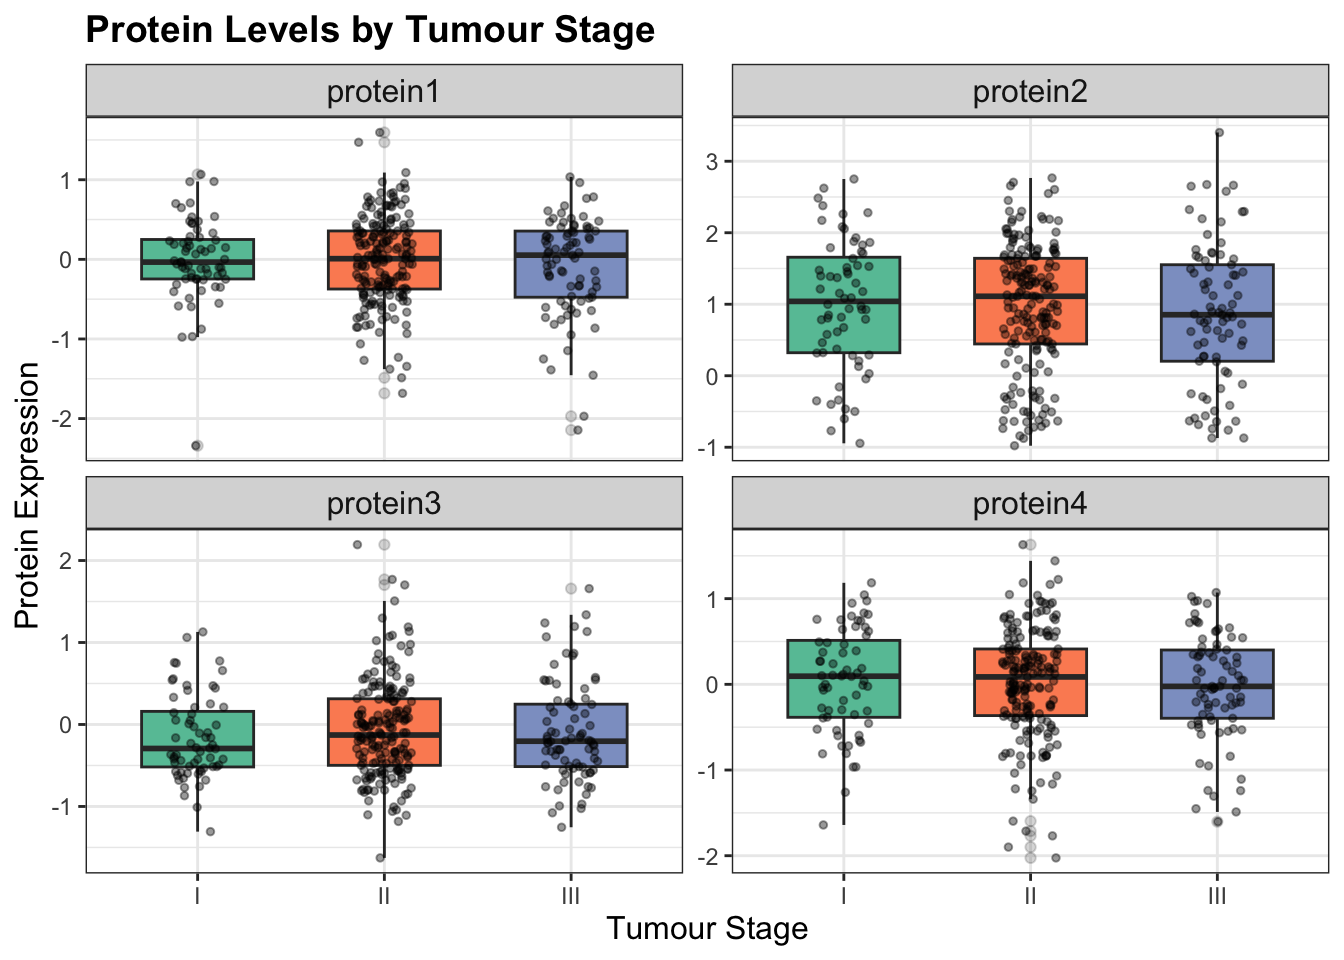
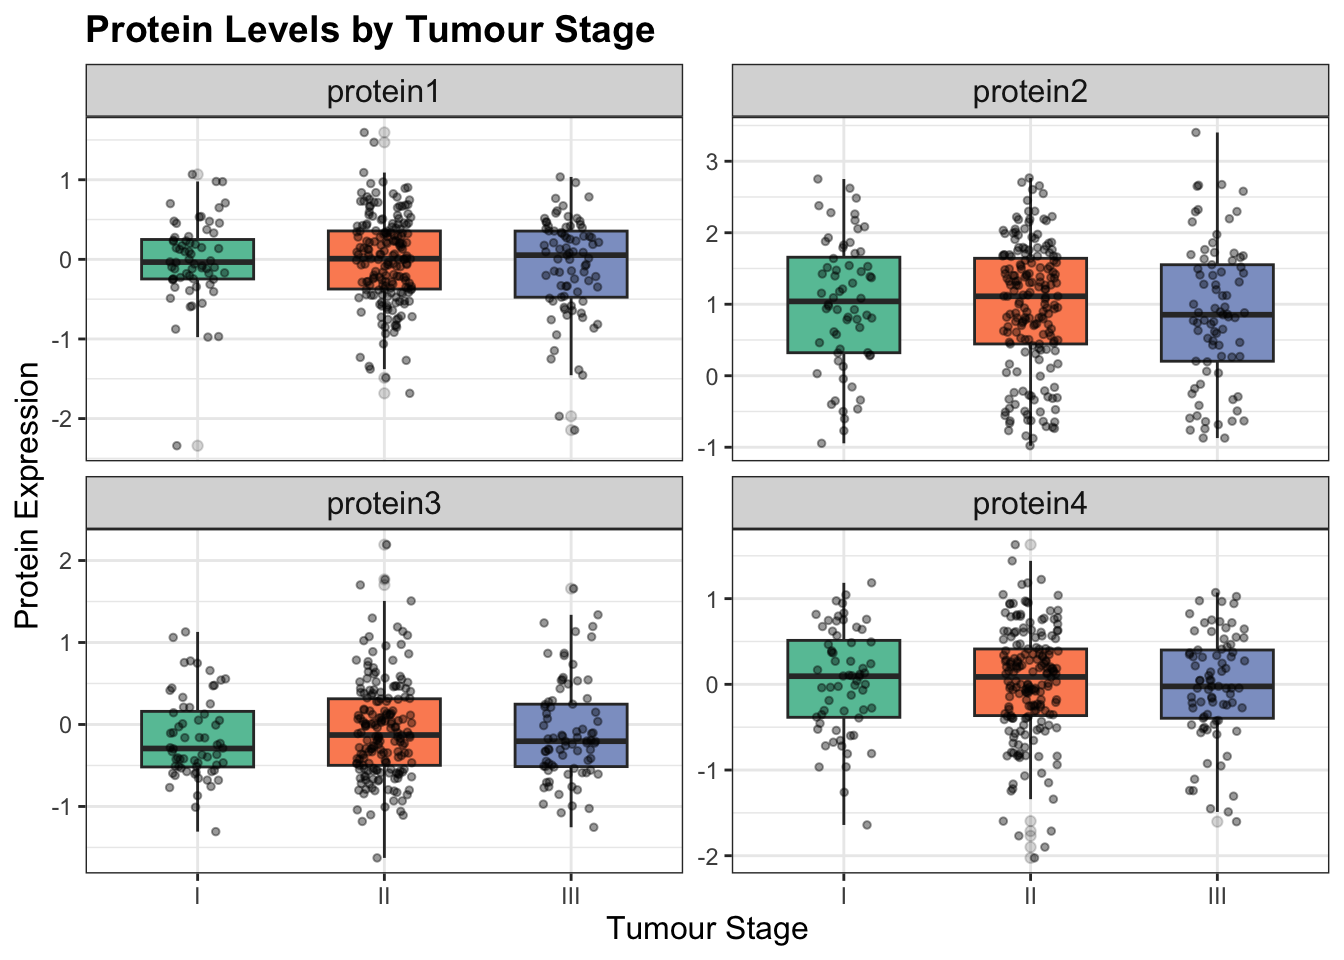
update website

diff --git a/docs/final_report.html b/docs/final_report.html
@@ -687,13 +687,11 @@ cohort.</p>
            na.rm = TRUE)
   )</code></pre>
 <pre><code>## # A tibble: 1 × 16
-##   protein1_mean protein1_sd protein1_min protein1_max protein2_mean protein2_sd
-##           &lt;dbl&gt;       &lt;dbl&gt;        &lt;dbl&gt;        &lt;dbl&gt;         &lt;dbl&gt;       &lt;dbl&gt;
-## 1       -0.0300       0.564        -2.34         1.59         0.947       0.912
-## # ℹ 10 more variables: protein2_min &lt;dbl&gt;, protein2_max &lt;dbl&gt;,
-## #   protein3_mean &lt;dbl&gt;, protein3_sd &lt;dbl&gt;, protein3_min &lt;dbl&gt;,
-## #   protein3_max &lt;dbl&gt;, protein4_mean &lt;dbl&gt;, protein4_sd &lt;dbl&gt;,
-## #   protein4_min &lt;dbl&gt;, protein4_max &lt;dbl&gt;</code></pre>
+##   protein1_mean protein1_sd protein1_min protein1_max protein2_mean protein2_sd protein2_min protein2_max protein3_mean protein3_sd
+##           &lt;dbl&gt;       &lt;dbl&gt;        &lt;dbl&gt;        &lt;dbl&gt;         &lt;dbl&gt;       &lt;dbl&gt;        &lt;dbl&gt;        &lt;dbl&gt;         &lt;dbl&gt;       &lt;dbl&gt;
+## 1       -0.0300       0.564        -2.34         1.59         0.947       0.912       -0.979         3.40       -0.0902       0.585
+## # ℹ 6 more variables: protein3_min &lt;dbl&gt;, protein3_max &lt;dbl&gt;, protein4_mean &lt;dbl&gt;, protein4_sd &lt;dbl&gt;, protein4_min &lt;dbl&gt;,
+## #   protein4_max &lt;dbl&gt;</code></pre>
 <p>This table describes the four anonymized protein biomarkers in the
 dataset by reporting their mean, standard deviation, and observed range.
 These summaries help us see the typical expression level and variability
@@ -1140,19 +1138,19 @@ outcomes across different groups.</p>
 <pre class="r"><code>brca_mlr %&gt;% 
   broom::tidy(exponentiate = TRUE, conf.int = TRUE)</code></pre>
 <pre><code>## # A tibble: 11 × 7
-##    term                  estimate std.error statistic p.value conf.low conf.high
-##    &lt;chr&gt;                    &lt;dbl&gt;     &lt;dbl&gt;     &lt;dbl&gt;   &lt;dbl&gt;    &lt;dbl&gt;     &lt;dbl&gt;
-##  1 (Intercept)             0.0874    0.811     -3.01  0.00264   0.0172     0.417
-##  2 age                     1.00      0.0112     0.287 0.774     0.981      1.03 
-##  3 tumour_stage.L          1.33      0.332      0.852 0.394     0.699      2.59 
-##  4 tumour_stage.Q          0.950     0.238     -0.218 0.828     0.591      1.51 
-##  5 surgery_typeModified…   1.75      0.463      1.21  0.225     0.723      4.52 
-##  6 surgery_typeOther       2.24      0.441      1.83  0.0670    0.972      5.57 
-##  7 surgery_typeSimple M…   1.63      0.493      0.995 0.320     0.625      4.41 
-##  8 protein1                0.846     0.277     -0.602 0.547     0.492      1.46 
-##  9 protein2                1.39      0.175      1.89  0.0583    0.991      1.98 
-## 10 protein3                1.34      0.262      1.12  0.264     0.799      2.24 
-## 11 protein4                1.44      0.250      1.47  0.143     0.892      2.39</code></pre>
+##    term                                    estimate std.error statistic p.value conf.low conf.high
+##    &lt;chr&gt;                                      &lt;dbl&gt;     &lt;dbl&gt;     &lt;dbl&gt;   &lt;dbl&gt;    &lt;dbl&gt;     &lt;dbl&gt;
+##  1 (Intercept)                               0.0874    0.811     -3.01  0.00264   0.0172     0.417
+##  2 age                                       1.00      0.0112     0.287 0.774     0.981      1.03 
+##  3 tumour_stage.L                            1.33      0.332      0.852 0.394     0.699      2.59 
+##  4 tumour_stage.Q                            0.950     0.238     -0.218 0.828     0.591      1.51 
+##  5 surgery_typeModified Radical Mastectomy   1.75      0.463      1.21  0.225     0.723      4.52 
+##  6 surgery_typeOther                         2.24      0.441      1.83  0.0670    0.972      5.57 
+##  7 surgery_typeSimple Mastectomy             1.63      0.493      0.995 0.320     0.625      4.41 
+##  8 protein1                                  0.846     0.277     -0.602 0.547     0.492      1.46 
+##  9 protein2                                  1.39      0.175      1.89  0.0583    0.991      1.98 
+## 10 protein3                                  1.34      0.262      1.12  0.264     0.799      2.24 
+## 11 protein4                                  1.44      0.250      1.47  0.143     0.892      2.39</code></pre>
 <p>Model coefficient estimates were expressed as odds ratios. At the
 0.05 level, none of the predictors were statistically significant,
 though the proteins generally expressed a weak positive association with

diff --git a/docs/EDA.html b/docs/EDA.html
@@ -580,13 +580,11 @@ cohort.</p>
            na.rm = TRUE)
   )</code></pre>
 <pre><code>## # A tibble: 1 × 16
-##   protein1_mean protein1_sd protein1_min protein1_max protein2_mean protein2_sd
-##           &lt;dbl&gt;       &lt;dbl&gt;        &lt;dbl&gt;        &lt;dbl&gt;         &lt;dbl&gt;       &lt;dbl&gt;
-## 1       -0.0300       0.564        -2.34         1.59         0.947       0.912
-## # ℹ 10 more variables: protein2_min &lt;dbl&gt;, protein2_max &lt;dbl&gt;,
-## #   protein3_mean &lt;dbl&gt;, protein3_sd &lt;dbl&gt;, protein3_min &lt;dbl&gt;,
-## #   protein3_max &lt;dbl&gt;, protein4_mean &lt;dbl&gt;, protein4_sd &lt;dbl&gt;,
-## #   protein4_min &lt;dbl&gt;, protein4_max &lt;dbl&gt;</code></pre>
+##   protein1_mean protein1_sd protein1_min protein1_max protein2_mean protein2_sd protein2_min protein2_max protein3_mean protein3_sd
+##           &lt;dbl&gt;       &lt;dbl&gt;        &lt;dbl&gt;        &lt;dbl&gt;         &lt;dbl&gt;       &lt;dbl&gt;        &lt;dbl&gt;        &lt;dbl&gt;         &lt;dbl&gt;       &lt;dbl&gt;
+## 1       -0.0300       0.564        -2.34         1.59         0.947       0.912       -0.979         3.40       -0.0902       0.585
+## # ℹ 6 more variables: protein3_min &lt;dbl&gt;, protein3_max &lt;dbl&gt;, protein4_mean &lt;dbl&gt;, protein4_sd &lt;dbl&gt;, protein4_min &lt;dbl&gt;,
+## #   protein4_max &lt;dbl&gt;</code></pre>
 <p>This table describes the four anonymized protein biomarkers in the
 dataset by reporting their mean, standard deviation, and observed range.
 These summaries help us see the typical expression level and variability
@@ -986,13 +984,24 @@ protein_cor</code></pre>
 <pre class="r"><code>corrplot(protein_cor, method = &quot;color&quot;, tl.col = &quot;black&quot;)</code></pre>
 <p><img src="EDA_files/figure-html/unnamed-chunk-17-1.png" width="672" /></p>
 <p>To assess how similar the four protein biomarkers are to one another,
-we computed a correlation matrix of Protein1–Protein4. This helps us
-understand whether the proteins provide largely redundant information or
-capture distinct aspects of tumour biology. The resulting correlations
-were generally (low/moderate/high — fill in after you look at the
-matrix), suggesting that while some proteins are related, no pair is
-perfectly correlated. This supports including multiple protein markers
-in our models, while remaining aware of potential collinearity.</p>
+we computed a correlation matrix for Protein1–Protein4. This helps us
+evaluate whether the proteins provide overlapping information or capture
+different biological signals. Overall, the correlations were modest to
+moderate in magnitude. Protein1 showed moderate positive correlations
+with Protein2 and Protein4, while Protein2 and Protein3 displayed a
+moderate negative correlation. Other pairs were only weakly correlated.
+Importantly, no protein pair showed a very strong (|r| &gt; 0.8)
+correlation, indicating that none of the biomarkers are redundant. This
+supports the inclusion of multiple protein markers in downstream models
+while keeping collinearity concerns relatively low.</p>
+<p>The patterns and correlations uncovered above — including moderate
+relationships among certain proteins and no strong differences in
+biomarker levels by tumor stage/histology — guide our next steps. With
+this evidence, we proceed to fit a logistic regression to predict
+patient status, followed by ANOVA to test for differences in biomarker
+expression across clinical groups, and finally survival analysis. These
+analyses build directly on the exploratory structure identified in this
+section.</p>
 </div>
 </div>
 

diff --git a/docs/multi_log_reg.html b/docs/multi_log_reg.html
@@ -416,19 +416,19 @@ outcomes across different groups.</p>
 <pre class="r"><code>brca_mlr %&gt;% 
   broom::tidy(exponentiate = TRUE, conf.int = TRUE)</code></pre>
 <pre><code>## # A tibble: 11 × 7
-##    term                  estimate std.error statistic p.value conf.low conf.high
-##    &lt;chr&gt;                    &lt;dbl&gt;     &lt;dbl&gt;     &lt;dbl&gt;   &lt;dbl&gt;    &lt;dbl&gt;     &lt;dbl&gt;
-##  1 (Intercept)             0.0874    0.811     -3.01  0.00264   0.0172     0.417
-##  2 age                     1.00      0.0112     0.287 0.774     0.981      1.03 
-##  3 tumour_stage.L          1.33      0.332      0.852 0.394     0.699      2.59 
-##  4 tumour_stage.Q          0.950     0.238     -0.218 0.828     0.591      1.51 
-##  5 surgery_typeModified…   1.75      0.463      1.21  0.225     0.723      4.52 
-##  6 surgery_typeOther       2.24      0.441      1.83  0.0670    0.972      5.57 
-##  7 surgery_typeSimple M…   1.63      0.493      0.995 0.320     0.625      4.41 
-##  8 protein1                0.846     0.277     -0.602 0.547     0.492      1.46 
-##  9 protein2                1.39      0.175      1.89  0.0583    0.991      1.98 
-## 10 protein3                1.34      0.262      1.12  0.264     0.799      2.24 
-## 11 protein4                1.44      0.250      1.47  0.143     0.892      2.39</code></pre>
+##    term                                    estimate std.error statistic p.value conf.low conf.high
+##    &lt;chr&gt;                                      &lt;dbl&gt;     &lt;dbl&gt;     &lt;dbl&gt;   &lt;dbl&gt;    &lt;dbl&gt;     &lt;dbl&gt;
+##  1 (Intercept)                               0.0874    0.811     -3.01  0.00264   0.0172     0.417
+##  2 age                                       1.00      0.0112     0.287 0.774     0.981      1.03 
+##  3 tumour_stage.L                            1.33      0.332      0.852 0.394     0.699      2.59 
+##  4 tumour_stage.Q                            0.950     0.238     -0.218 0.828     0.591      1.51 
+##  5 surgery_typeModified Radical Mastectomy   1.75      0.463      1.21  0.225     0.723      4.52 
+##  6 surgery_typeOther                         2.24      0.441      1.83  0.0670    0.972      5.57 
+##  7 surgery_typeSimple Mastectomy             1.63      0.493      0.995 0.320     0.625      4.41 
+##  8 protein1                                  0.846     0.277     -0.602 0.547     0.492      1.46 
+##  9 protein2                                  1.39      0.175      1.89  0.0583    0.991      1.98 
+## 10 protein3                                  1.34      0.262      1.12  0.264     0.799      2.24 
+## 11 protein4                                  1.44      0.250      1.47  0.143     0.892      2.39</code></pre>
 <p>Model coefficient estimates were expressed as odds ratios. At the
 0.05 level, none of the predictors were statistically significant,
 though the proteins generally expressed a weak positive association with
